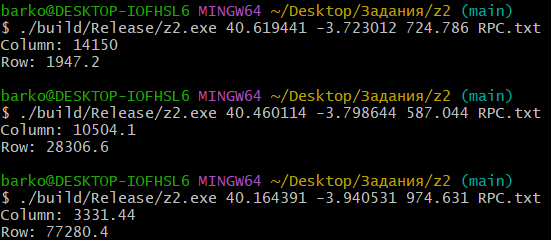
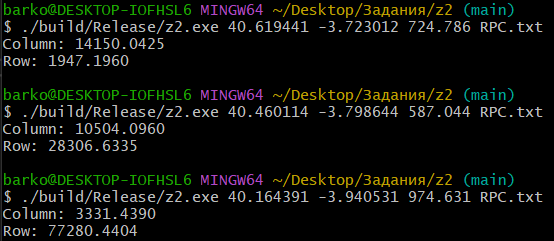
fixed output

Changed region(s): [[0.0, 0.0, 0.9873, 1.0]]

diff --git a/main.cpp b/main.cpp
@@ -146,6 +146,8 @@ int main(int argc, char* argv[]) {
 	double row = rn * coefs["LINE_SCALE"] + coefs["LINE_OFF"];
 	double col = cn * coefs["SAMP_SCALE"] + coefs["SAMP_OFF"];
 
+	cout.precision(4);
+	cout << fixed;
 	cout << "Column: " << col << endl;
 	cout << "Row: " << row << endl;
 }
